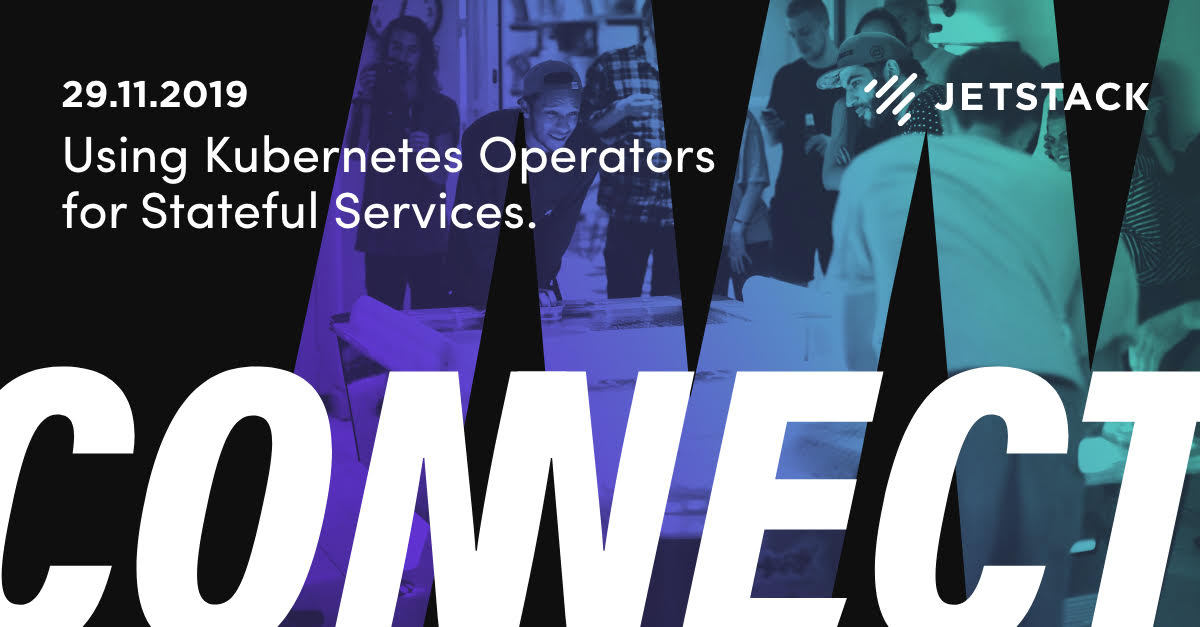
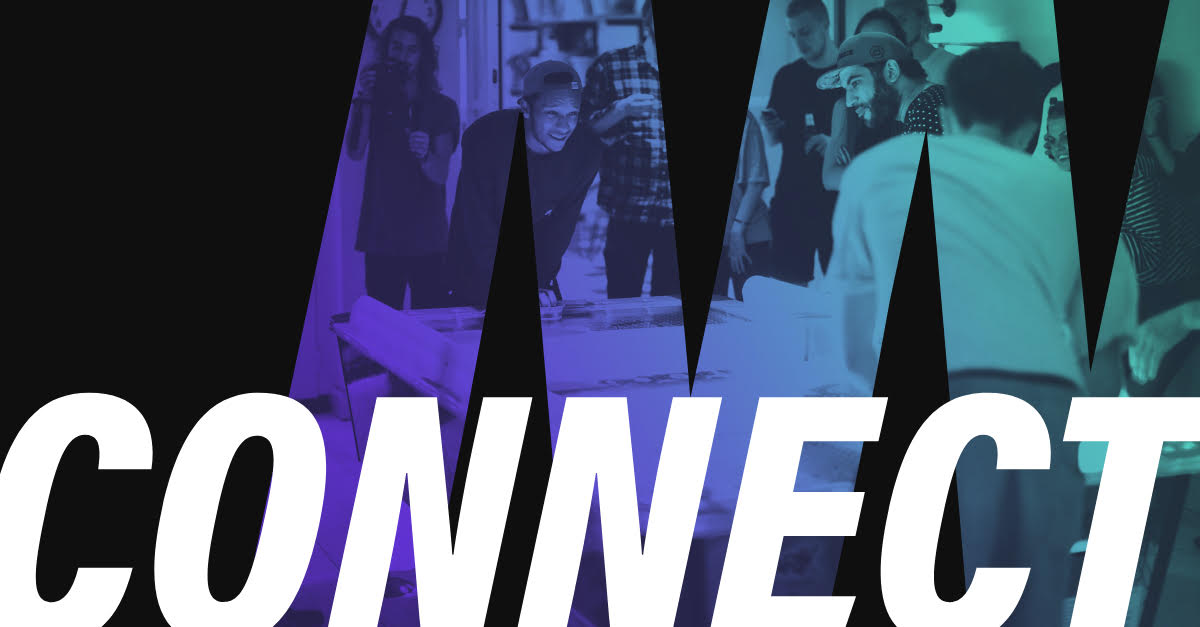
Update event images

diff --git a/layouts/events/list.html b/layouts/events/list.html
@@ -13,7 +13,7 @@
   <section class="tight media-component">
     {{ range sort .Data.Pages "Params.timestamp" }}
       <div class="media-component__row">
-        <div class="media-component__image" style="background-image: url({{ .Params.image }}); background-size: contain;"></div>
+        <div class="media-component__image" style="background-image: url({{ .Params.image }}); background-position: center bottom;"></div>
         <div class="media-component__content">
           <div class="media-component__copy">
             <h2><a href="{{ .Params.link }}">{{ .Params.Title }}</a></h2>
